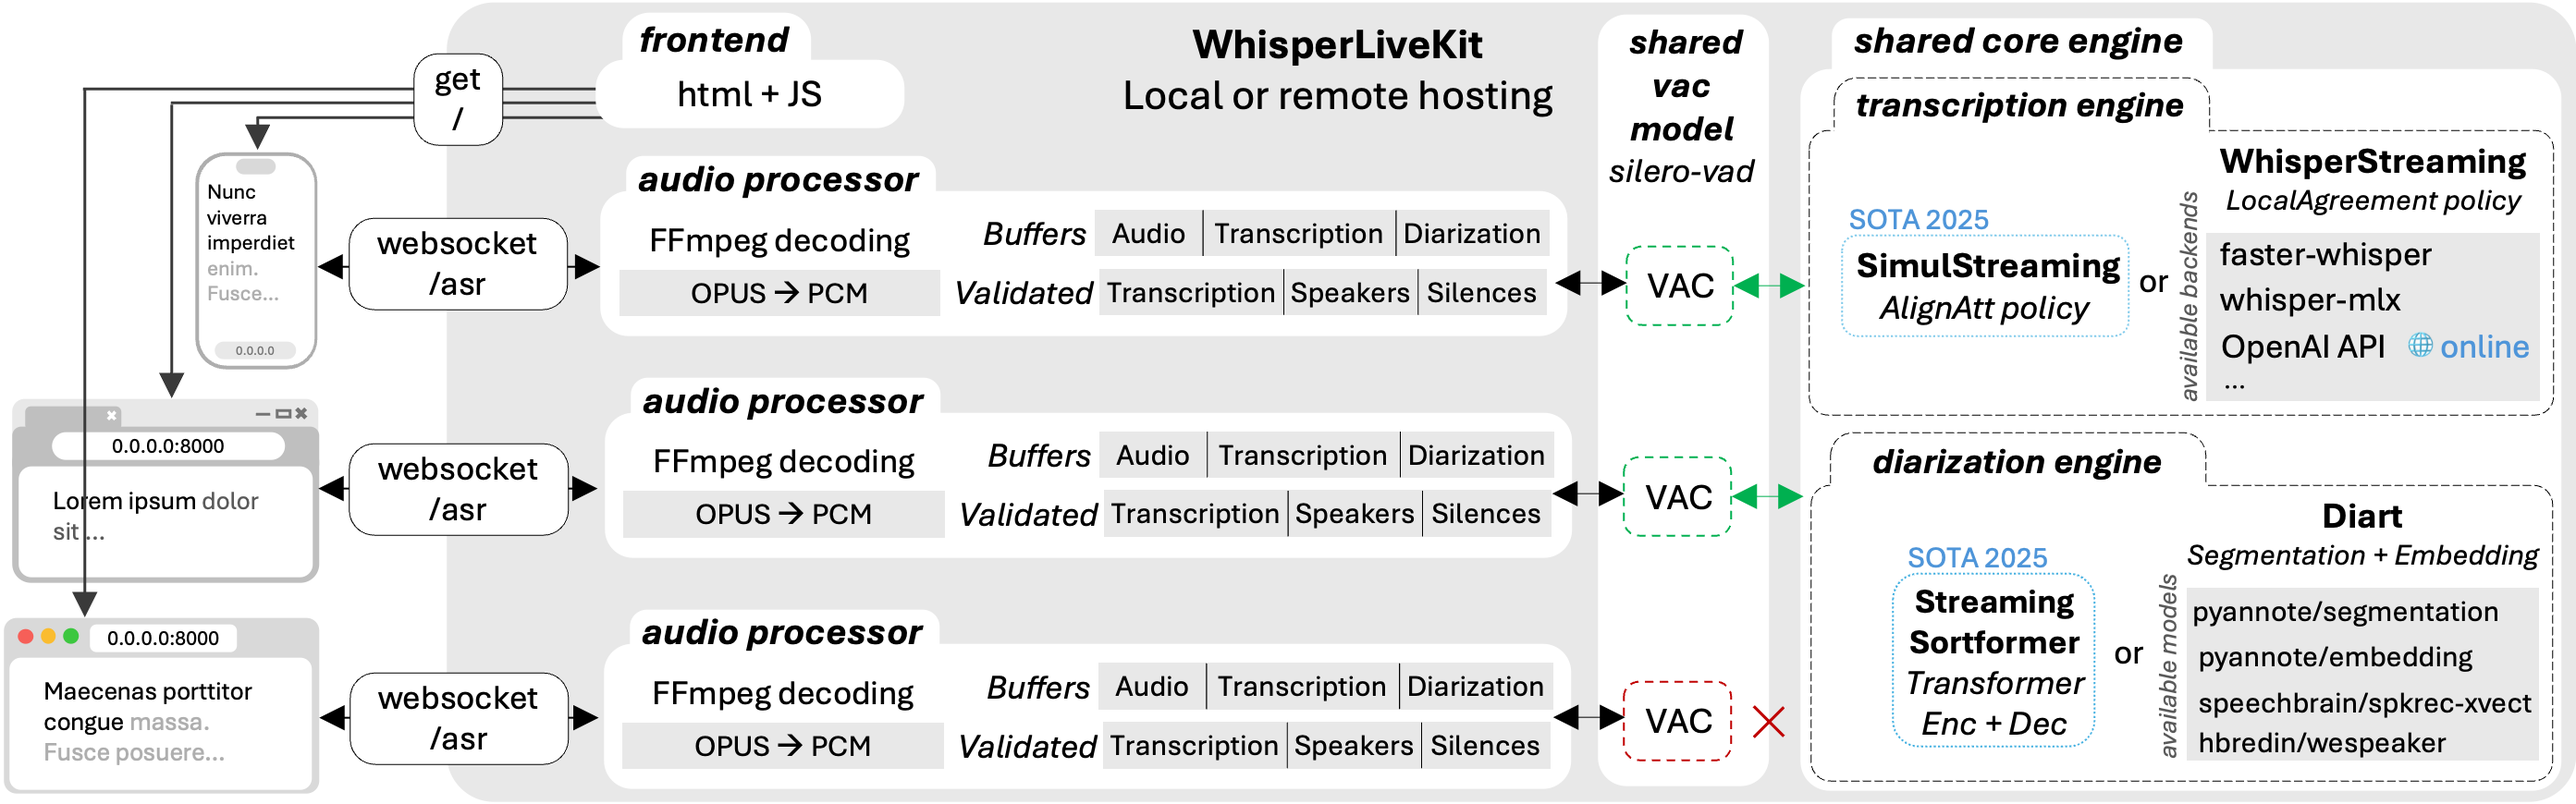
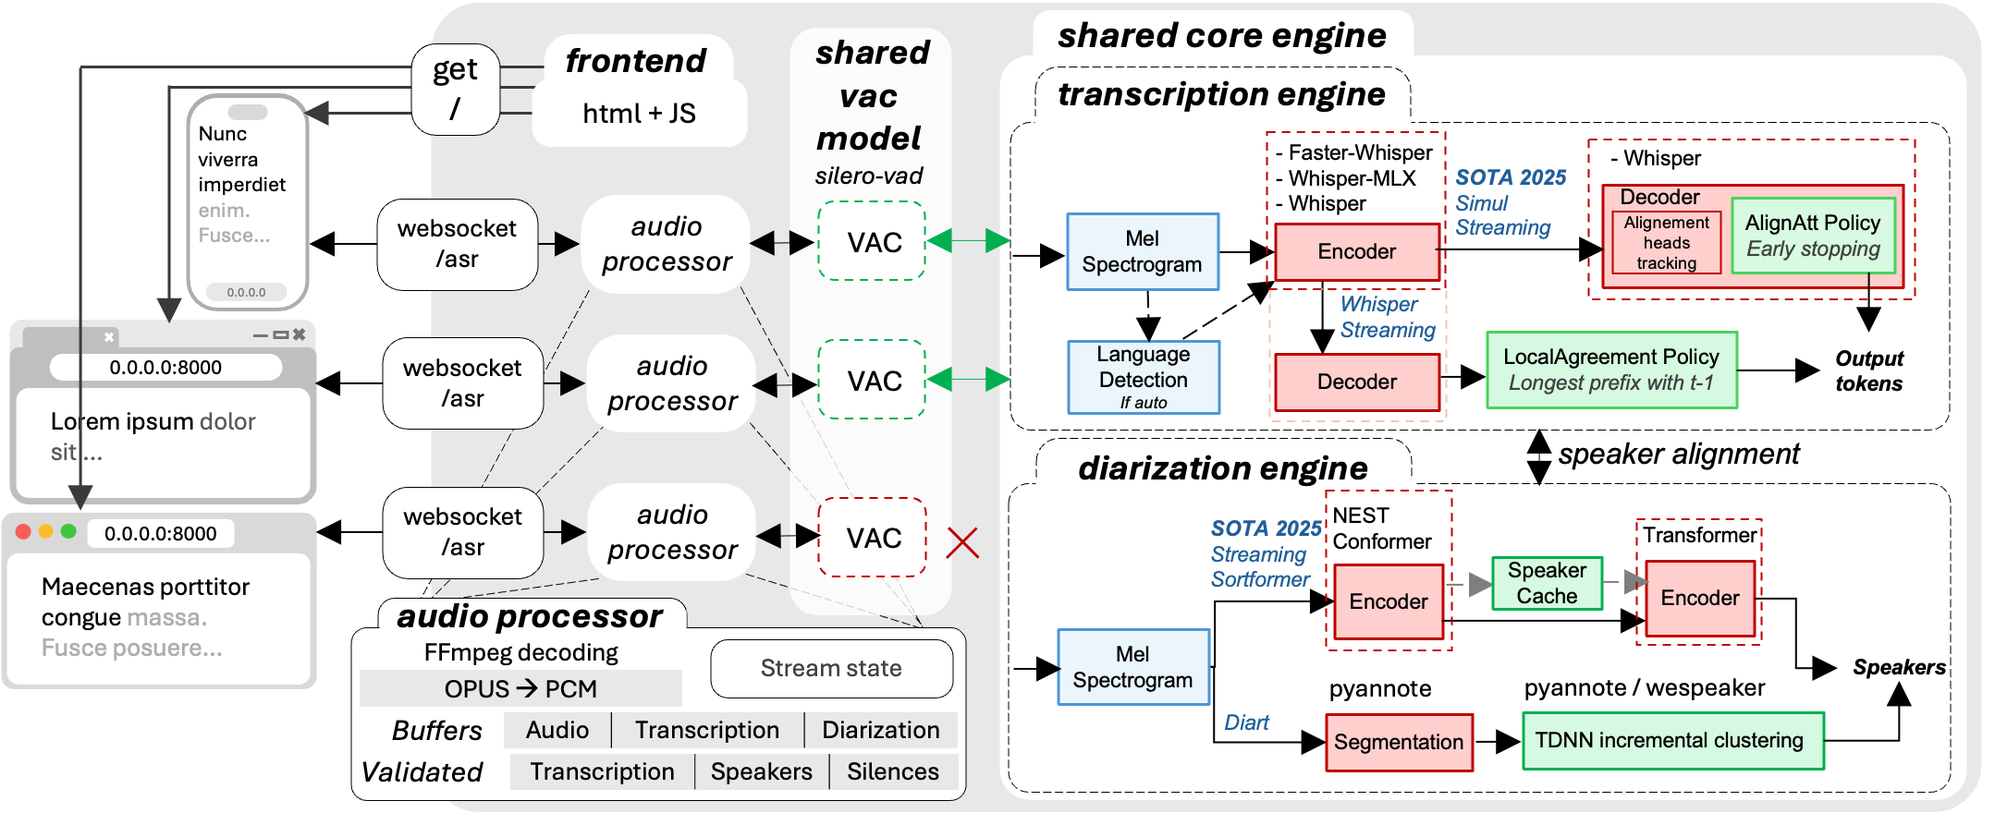
mlx/fasterWhisper encoders are loaded once and shared in simulstreaming

Changed region(s): [[0.0, 0.031, 0.9935, 0.9931], [0.4347, 0.7448, 0.4657, 0.7759]]

diff --git a/whisperlivekit/simul_whisper/simul_whisper.py b/whisperlivekit/simul_whisper/simul_whisper.py
@@ -23,29 +23,22 @@ from .generation_progress import *
 DEC_PAD = 50257
 logger = logging.getLogger(__name__)
 
-import sys
-import wave
 
 try:
     from mlx_whisper.audio import log_mel_spectrogram as mlx_log_mel_spectrogram
     from mlx_whisper.transcribe import pad_or_trim as mlx_pad_or_trim
-    from mlx_whisper import load_models
-    from .mlx_model_mapping import model_mapping
     HAS_MLX_WHISPER = True
 except ImportError:
     HAS_MLX_WHISPER = False
-
-try:
-    from faster_whisper import WhisperModel
-    from faster_whisper.audio import pad_or_trim as fw_pad_or_trim
-    from faster_whisper.feature_extractor import FeatureExtractor
-    HAS_FASTER_WHISPER = True
-except ImportError:
+if HAS_MLX_WHISPER:
     HAS_FASTER_WHISPER = False
-    
-# HAS_MLX_WHISPER = False
-HAS_FASTER_WHISPER = False #Time to determine if that's really faster
-
+else:
+    try:
+        from faster_whisper.audio import pad_or_trim as fw_pad_or_trim
+        from faster_whisper.feature_extractor import FeatureExtractor
+        HAS_FASTER_WHISPER = True
+    except ImportError:
+        HAS_FASTER_WHISPER = False
 
 # New features added to the original version of Simul-Whisper: 
 # - large-v3 model support
@@ -54,7 +47,13 @@ HAS_FASTER_WHISPER = False #Time to determine if that's really faster
 # - prompt -- static vs. non-static
 # - context
 class PaddedAlignAttWhisper:
-    def __init__(self, cfg: AlignAttConfig, loaded_model=None) -> None:
+    def __init__(
+            self, 
+            cfg: AlignAttConfig,
+            loaded_model=None,
+            mlx_encoder=None,
+            fw_encoder=None,
+        ) -> None:
         self.log_segments = 0
         model_name = os.path.basename(cfg.model_path).replace(".pt", "")
         model_path = os.path.dirname(os.path.abspath(cfg.model_path))
@@ -63,19 +62,11 @@ class PaddedAlignAttWhisper:
         else:
             self.model = load_model(name=model_name, download_root=model_path)
 
-        if HAS_MLX_WHISPER:
-            print('Simulstreaming will use MLX whisper for a faster encoder.')
-            mlx_model_name = model_mapping[model_name]
-            self.mlx_model = load_models.load_model(path_or_hf_repo=mlx_model_name)
-        elif HAS_FASTER_WHISPER:
-            print('Simulstreaming will use Faster Whisper for the encoder.')
-            self.fw_model = WhisperModel(
-                model_name,
-                device='auto',
-                compute_type='auto',
-            )
-            self.feature_extractor = FeatureExtractor(feature_size=self.model.dims.n_mels)
-
+        self.mlx_encoder = mlx_encoder
+        self.fw_encoder = fw_encoder
+        if HAS_FASTER_WHISPER:
+            self.fw_feature_extractor = FeatureExtractor(feature_size=self.model.dims.n_mels)
+            
         logger.info(f"Model dimensions: {self.model.dims}")
 
         self.decode_options = DecodingOptions(
@@ -398,17 +389,16 @@ class PaddedAlignAttWhisper:
         if HAS_MLX_WHISPER:
             mlx_mel_padded = mlx_log_mel_spectrogram(audio=input_segments.detach(), n_mels=self.model.dims.n_mels, padding=N_SAMPLES)
             mlx_mel = mlx_pad_or_trim(mlx_mel_padded, N_FRAMES, axis=-2)
-            mlx_encoder_feature = self.mlx_model.encoder(mlx_mel[None])
+            mlx_encoder_feature = self.mlx_encoder.encoder(mlx_mel[None])
             encoder_feature = torch.tensor(np.array(mlx_encoder_feature))
             content_mel_len = int((mlx_mel_padded.shape[0] - mlx_mel.shape[0])/2)
             device = 'cpu'
         elif HAS_FASTER_WHISPER:
             audio_length_seconds = len(input_segments) / 16000   
             content_mel_len = int(audio_length_seconds * 100)//2      
-            # padded_audio = pad_or_trim(input_segments.detach(), N_SAMPLES)
-            mel_padded_2 = self.feature_extractor(waveform=input_segments.numpy(), padding=N_SAMPLES)[None, :]
+            mel_padded_2 = self.fw_feature_extractor(waveform=input_segments.numpy(), padding=N_SAMPLES)[None, :]
             mel = fw_pad_or_trim(mel_padded_2, N_FRAMES, axis=-1)
-            encoder_feature_ctranslate = self.fw_model.encode(mel)
+            encoder_feature_ctranslate = self.fw_encoder.encode(mel)
             encoder_feature = torch.Tensor(np.array(encoder_feature_ctranslate))
             device = 'cpu'
         else:
@@ -423,8 +413,6 @@ class PaddedAlignAttWhisper:
             device = mel.device
         end_encode = time()
         # print('Encoder duration:', end_encode-beg_encode)
-
-        
                 
 #        logger.debug(f"Encoder feature shape: {encoder_feature.shape}")
 #        if mel.shape[-2:] != (self.model.dims.n_audio_ctx, self.model.dims.n_audio_state):

diff --git a/whisperlivekit/simul_whisper/mlx_encoder.py b/whisperlivekit/simul_whisper/mlx_encoder.py
@@ -1,0 +1,72 @@
+import json
+from pathlib import Path
+
+import mlx.core as mx
+import mlx.nn as nn
+from huggingface_hub import snapshot_download
+from mlx.utils import tree_unflatten
+
+from mlx_whisper import whisper
+
+mlx_model_mapping = {
+    "tiny.en": "mlx-community/whisper-tiny.en-mlx",
+    "tiny": "mlx-community/whisper-tiny-mlx",
+    "base.en": "mlx-community/whisper-base.en-mlx",
+    "base": "mlx-community/whisper-base-mlx",
+    "small.en": "mlx-community/whisper-small.en-mlx",
+    "small": "mlx-community/whisper-small-mlx",
+    "medium.en": "mlx-community/whisper-medium.en-mlx",
+    "medium": "mlx-community/whisper-medium-mlx",
+    "large-v1": "mlx-community/whisper-large-v1-mlx",
+    "large-v2": "mlx-community/whisper-large-v2-mlx",
+    "large-v3": "mlx-community/whisper-large-v3-mlx",
+    "large-v3-turbo": "mlx-community/whisper-large-v3-turbo",
+    "large": "mlx-community/whisper-large-mlx",
+}
+
+def load_mlx_encoder(
+    path_or_hf_repo: str,
+    dtype: mx.Dtype = mx.float32,
+) -> whisper.Whisper:
+    model_path = Path(path_or_hf_repo)
+    if not model_path.exists():
+        model_path = Path(snapshot_download(repo_id=path_or_hf_repo))
+
+    with open(str(model_path / "config.json"), "r") as f:
+        config = json.loads(f.read())
+        config.pop("model_type", None)
+        quantization = config.pop("quantization", None)
+
+    model_args = whisper.ModelDimensions(**config)
+
+    wf = model_path / "weights.safetensors"
+    if not wf.exists():
+        wf = model_path / "weights.npz"
+    weights = mx.load(str(wf))
+
+    model = whisper.Whisper(model_args, dtype)
+
+    if quantization is not None:
+        class_predicate = (
+            lambda p, m: isinstance(m, (nn.Linear, nn.Embedding))
+            and f"{p}.scales" in weights
+        )
+        nn.quantize(model, **quantization, class_predicate=class_predicate)
+
+    weights = tree_unflatten(list(weights.items()))
+    
+    # we only want to load the encoder weights here.
+    # Size examples: for tiny.en, 
+    # Decoder weights: 59110771 bytes
+    # Encoder weights: 15268874 bytes
+
+    
+    encoder_weights = {}
+    encoder_weights['encoder'] = weights['encoder']
+    del(weights)
+    
+
+
+    model.update(encoder_weights)
+    mx.eval(model.parameters())
+    return model

diff --git a/whisperlivekit/simul_whisper/backend.py b/whisperlivekit/simul_whisper/backend.py
@@ -18,6 +18,21 @@ from whisperlivekit.simul_whisper.config import AlignAttConfig
 from whisperlivekit.simul_whisper.simul_whisper import PaddedAlignAttWhisper
 from whisperlivekit.simul_whisper.whisper import tokenizer
 
+try:
+    from .mlx_encoder import mlx_model_mapping, load_mlx_encoder
+    HAS_MLX_WHISPER = True
+except ImportError:
+    HAS_MLX_WHISPER = False
+if HAS_MLX_WHISPER:
+    HAS_FASTER_WHISPER = False
+else:
+    try:
+        from faster_whisper import WhisperModel
+        HAS_FASTER_WHISPER = True
+    except ImportError:
+        HAS_FASTER_WHISPER = False
+
+
 # TOO_MANY_REPETITIONS = 3
 
 class SimulStreamingOnlineProcessor:
@@ -46,7 +61,10 @@ class SimulStreamingOnlineProcessor:
         model = self.asr.get_new_model_instance()
         self.model = PaddedAlignAttWhisper(
             cfg=self.asr.cfg,
-            loaded_model=model)
+            loaded_model=model,
+            mlx_encoder=self.asr.mlx_encoder,
+            fw_encoder=self.asr.fw_encoder,
+            )
 
     def insert_silence(self, silence_duration, offset):
         """
@@ -273,8 +291,18 @@ class SimulStreamingASR():
         self.model_path = os.path.dirname(os.path.abspath(self.cfg.model_path))
         self.models = [self.load_model() for i in range(self.preload_model_count)]
     
-
-
+        self.mlx_encoder, self.fw_encoder = None, None
+        if HAS_MLX_WHISPER:
+            print('Simulstreaming will use MLX whisper for a faster encoder.')
+            mlx_model_name = mlx_model_mapping[self.model_name]
+            self.mlx_encoder = load_mlx_encoder(path_or_hf_repo=mlx_model_name)
+        elif HAS_FASTER_WHISPER:
+            print('Simulstreaming will use Faster Whisper for the encoder.')
+            self.fw_encoder = WhisperModel(
+                self.model_name,
+                device='auto',
+                compute_type='auto',
+            )
 
     def load_model(self):
         whisper_model = load_model(name=self.model_name, download_root=self.model_path)

diff --git a/DEV_NOTES.md b/DEV_NOTES.md
@@ -10,6 +10,12 @@ On macOS Apple Silicon M4 :
 | FASTER_WHISPER | 0.4s | 1.20s |
 | MLX_WHISPER | 0.07s | 0.20s |
 
+Memory saved by only loading encoder for optimized framework:
+
+For tiny.en, mlx whisper:
+Sizes MLX whisper:
+Decoder weights: 59110771 bytes
+Encoder weights: 15268874 bytes
 
 
 
